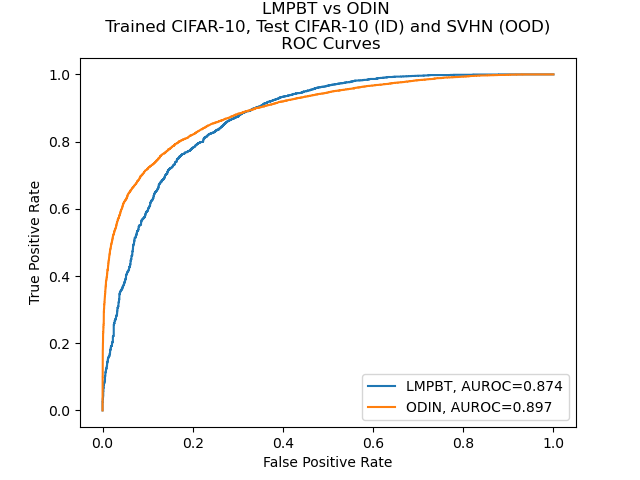
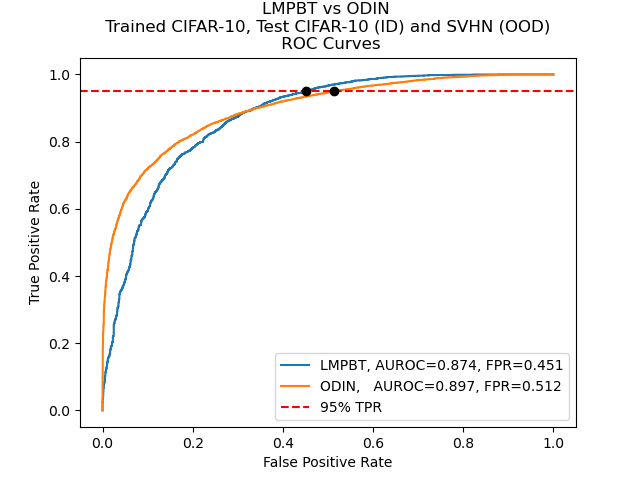
updated ROC curves

diff --git a/src/generate_LMPBT_ODIN_curves.py b/src/generate_LMPBT_ODIN_curves.py
@@ -4,11 +4,15 @@
 # 2) run `python generate_ROC_PR_curves.py`
 
 import matplotlib.pyplot as plt
+from matplotlib.lines import Line2D
+import matplotlib.patches as mpatches
 import numpy as np
 from sklearn.metrics import auc, precision_recall_curve, roc_curve
 
 ID = "FashionMNIST"
 OOD = "MNIST"
+# TEXT_PADDING = 0.03
+TARGET_TPR = 0.95
 
 IMAGE_FILE_PREFIX = "./LMPBT_vs_ODIN_{}-ID_{}-OOD_".format(ID,OOD)
 LMPBT_DIRECTORY = "./LMPBT/results/Train_{}/".format(ID) # set the parent directory of the results
@@ -48,7 +52,7 @@ def calc_ROC_PR_data(labels, predictions, pos_label=1):
     pr_auc = auc(recall, precision)
 
 
-    fpr95 = (fpr[np.argmin(np.abs(tpr - 0.95))].min())
+    fpr95 = (fpr[np.argmin(np.abs(tpr - TARGET_TPR))].min())
 
     return fpr, tpr, roc_auc, precision, recall, pr_auc, fpr95
 
@@ -64,22 +68,39 @@ def calc_ROC_PR_data(labels, predictions, pos_label=1):
   ODIN_precision, ODIN_recall, ODIN_aupr, ODIN_fpr95
 ) = calc_ROC_PR_data(ODIN_labels, ODIN_predictions)
 
+### ROC Curve ###
 plt.figure(1).clf()
 plt.title(TITLE + "ROC Curves")
 plt.xlabel('False Positive Rate')
 plt.ylabel('True Positive Rate')
-plt.plot(LMPBT_fpr,LMPBT_tpr,label="LMPBT, AUROC={:.3f}".format(LMPBT_auroc))
-plt.plot(ODIN_fpr,ODIN_tpr,label="ODIN, AUROC={:.3f}".format(ODIN_auroc))
-plt.legend(loc=0)
+plt.plot(LMPBT_fpr,LMPBT_tpr,label="LMPBT, AUROC={:.3f}, FPR={:.3f}".format(LMPBT_auroc,LMPBT_fpr95))
+plt.plot(ODIN_fpr,ODIN_tpr,label="ODIN,   AUROC={:.3f}, FPR={:.3f}".format(ODIN_auroc,ODIN_fpr95))
+
+# dashed line and legend
+plt.axhline(y = TARGET_TPR, color = 'r', linestyle = '--')
+handles, labels = plt.gca().get_legend_handles_labels()
+line = Line2D([0], [0], label='95% TPR', color='r', linestyle = '--')
+handles.extend([line])
+plt.legend(handles=handles,loc=0)
+
+plt.plot(LMPBT_fpr95, TARGET_TPR, color = 'black', marker='o')
+plt.plot(ODIN_fpr95, TARGET_TPR, color = 'black', marker='o')
+# plt.text(LMPBT_fpr95 - TEXT_PADDING, TARGET_TPR + TEXT_PADDING, 'FPR={:.3f}'.format(LMPBT_fpr95), horizontalalignment='right',
+#     verticalalignment='bottom')
+# plt.text(ODIN_fpr95 + TEXT_PADDING, TARGET_TPR - TEXT_PADDING, 'FPR={:.3f}'.format(ODIN_fpr95), horizontalalignment='left',
+#     verticalalignment='top')
+
 plt.savefig(IMAGE_FILE_PREFIX+'roc_curve.png')
 
-plt.figure(2).clf()
-plt.title(TITLE + "PR Curves")
-plt.xlabel('Recall')
-plt.ylabel('Precision')
-plt.plot(LMPBT_recall,LMPBT_precision,label="LMPBT, AUPR={:.3f}".format(LMPBT_aupr))
-plt.plot(ODIN_recall,ODIN_precision,label="ODIN, AUPR={:.3f}".format(ODIN_aupr))
-plt.legend(loc='best')
-plt.savefig(IMAGE_FILE_PREFIX+'pr_curve.png')
+
+### PR Curve ###
+# plt.figure(2).clf()
+# plt.title(TITLE + "PR Curves")
+# plt.xlabel('Recall')
+# plt.ylabel('Precision')
+# plt.plot(LMPBT_recall,LMPBT_precision,label="LMPBT, AUPR={:.3f}".format(LMPBT_aupr))
+# plt.plot(ODIN_recall,ODIN_precision,label="ODIN, AUPR={:.3f}".format(ODIN_aupr))
+# plt.legend(loc='best')
+# plt.savefig(IMAGE_FILE_PREFIX+'pr_curve.png')
 
 plt.show()

diff --git a/src/LMPBT/LMPBT_fork/train_vae.py b/src/LMPBT/LMPBT_fork/train_vae.py
@@ -17,6 +17,9 @@ from pathlib import Path
 import os
 from get_torchvision_dataset import get_torchvision_dataset
 
+from torchvision.utils import save_image
+import math
+
 def KL_div(mu,logvar,reduction = 'avg'):
     mu = mu.view(mu.size(0),mu.size(1))
     logvar = logvar.view(logvar.size(0), logvar.size(1))
@@ -123,24 +126,37 @@ if __name__=="__main__":
         epoch_rec_l = []
         for i, (x, _) in enumerate(dataloader):
             x = x.to(device)
-            print("x",x)
-            print("x.size()",x.size())
+            # print("x",x)
+            # print("x.size()",x.size())
+            # save_image(
+            #     x,
+            #     'x.png',
+            #     nrow=int(math.sqrt(opt.batch_size)),
+            #     padding=0
+            # )
             if opt.perturbed:
                 x = perturb(x, opt.ratio, device)
+            
+            # save_image(
+            #     x,
+            #     'x_perturb.png',
+            #     nrow=int(math.sqrt(opt.batch_size)),
+            #     padding=0
+            # )
 
             b = x.size(0)
-            print("x.data.view(-1)",x.data.view(-1).size())
+            # print("x.data.view(-1)",x.data.view(-1).size())
             target = Variable(x.data.view(-1) * 255).long()
             [z,mu,logvar] = netE(x)
             recon = netG(z)
-            print("recon.size() 1",recon.size())
+            # print("recon.size() 1",recon.size())
             recon = recon.contiguous()
-            print("recon.size() 2",recon.size())
+            # print("recon.size() 2",recon.size())
             recon = recon.view(-1,256)
-            print("recon.size() 3",recon.size())
-            print("target.size()",target.size())
-            print("recon",recon)
-            print("target",target)
+            # print("recon.size() 3",recon.size())
+            # print("target.size()",target.size())
+            # print("recon",recon)
+            # print("target",target)
             recl = loss_fn(recon, target)
             recl = torch.sum(recl) / b
             kld = KL_div(mu,logvar)
